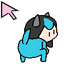
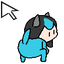
Add customizable MW and 0216 cursors and reliable white-arrow animation playback

Changed region(s): [[0.0312, 0.0312, 0.25, 0.3125]]

diff --git a/assets/mawang-cursor-v1.js b/assets/mawang-cursor-v1.js
@@ -6,17 +6,22 @@
     finger: { label: '마왕 손가락', points: [[1,14],[1,21],[1,28]] },
     red: { label: '레드 애로우', points: [[1,1],[1,1],[1,1]] },
     big: { label: '빅 애로우', points: [[9,1],[13,1],[17,1]] },
-    codeng: { label: '고속 코덩이', points: [[1,1],[1,1],[1,1]], animated:true },
-    'devil-dance': { label: '악마춤', points: [[1,1],[1,1],[1,1]], animated:true },
+    mw: { label: 'MW', points: [[1,1],[1,1],[1,1]], color:true },
+    '0216': { label: '0216', points: [[1,1],[1,1],[1,1]], color:true },
+    codeng: { label: '고속 코덩이', points: [[1,1],[1,1],[1,1]], animated:true, frames:5, duration:250 },
+    'devil-dance': { label: '악마춤', points: [[1,1],[1,1],[1,1]], animated:true, frames:20, duration:800 },
     system: { label: '시스템 기본' }
   };
   const assetBase = new URL('cursors/', document.currentScript.src);
   const mouse = matchMedia('(any-hover: hover) and (any-pointer: fine)');
-  const reduce = matchMedia('(prefers-reduced-motion: reduce)');
-  const imageUrl = (variant, size) => new URL(`${variant}-${size}.png`, assetBase).href;
+  const imageUrl = (variant, size) => new URL(`${variant}-${size}.png?v=3`, assetBase).href;
+  const original = '#f8dce9';
+  const validColor = color => typeof color === 'string' && /^#[0-9a-f]{6}$/i.test(color) ? color.toLowerCase() : original;
   function normalize(raw) {
     return { variant: Object.hasOwn(variants, raw?.variant) ? raw.variant : 'finger',
-      size: sizes.includes(raw?.size) ? raw.size : 48 };
+      size: sizes.includes(raw?.size) ? raw.size : 48,
+      colors: {mw:validColor(raw?.colors?.mw), '0216':validColor(raw?.colors?.['0216'])},
+      play:raw?.play !== false };
   }
   function load() {
     try { return normalize(JSON.parse(localStorage.getItem(key))); }
@@ -24,14 +29,46 @@
   }
   let prefs = load();
   let animation = null;
-  function reducedMotion() {
-    if (reduce.matches || root.dataset.mwsMotion === 'reduced') return true;
-    try { return localStorage.getItem('mws-screen-motion-v1') === 'reduced'; }
-    catch (_) { return false; }
+  const logoCache = new Map();
+  const previewImages = new Map();
+  let applyVersion = 0;
+  function logoUrl(variant,size,color) {
+    const source = imageUrl(variant,size);
+    if (color === original) return Promise.resolve(source);
+    const id = `${variant}-${size}-${color}`;
+    if (logoCache.has(id)) return logoCache.get(id);
+    const result = new Promise(resolve => {
+      const img = new Image();
+      img.onload = () => {
+        try {
+          const canvas = document.createElement('canvas');
+          canvas.width = img.naturalWidth; canvas.height = img.naturalHeight;
+          const ctx = canvas.getContext('2d');
+          ctx.drawImage(img,0,0);
+          const pixels = ctx.getImageData(0,0,canvas.width,canvas.height);
+          const rgb = [1,3,5].map(i=>parseInt(color.slice(i,i+2),16));
+          const d = pixels.data;
+          for (let i=0;i<d.length;i+=4) {
+            // Only the pink highlight. White arrow, neutral outline and alpha stay intact.
+            const strength = Math.max(0,Math.min(1,(Math.min(d[i],d[i+2])-d[i+1]-2)/15));
+            if (!strength || d[i]<125 || !d[i+3]) continue;
+            const light = Math.max(d[i],d[i+1],d[i+2])/255;
+            for(let c=0;c<3;c++) d[i+c] = Math.round(d[i+c]*(1-strength)+rgb[c]*light*strength);
+          }
+          ctx.putImageData(pixels,0,0);
+          resolve(canvas.toDataURL('image/png'));
+        } catch (_) { resolve(source); }
+      };
+      img.onerror = () => resolve(source);
+      img.src = source;
+    });
+    logoCache.set(id,result);
+    if (logoCache.size>24) logoCache.delete(logoCache.keys().next().value);
+    return result;
   }
-  function setNative(variant,size,arrow=false) {
+  function setNative(variant,size,arrow=false,customUrl=null) {
     const [x,y] = variants[variant].points[sizes.indexOf(size)];
-    const image = `url("${imageUrl(arrow?'animation-arrow':variant, size)}") ${x} ${y}`;
+    const image = `url("${customUrl || imageUrl(arrow?'animation-arrow':variant, size)}") ${x} ${y}`;
     root.style.setProperty('--mws-cursor-default', `${image}, auto`);
     root.style.setProperty('--mws-cursor-pointer', `${image}, pointer`);
     root.dataset.mwsCursor = variant;
@@ -52,24 +89,25 @@
     const offset = [6,8,10][sizes.indexOf(size)];
     const controller = new AbortController();
     const signal = controller.signal;
-    const sprite = document.createElement('img');
+    const sprite = document.createElement('div');
     sprite.className = 'mws-cursor-animation';
-    sprite.alt = '';
-    sprite.draggable = false;
     sprite.setAttribute('aria-hidden','true');
     sprite.hidden = true;
-    sprite.width = sprite.height = size-offset;
+    const width = size-offset;
+    sprite.style.width = sprite.style.height = `${width}px`;
     document.body.append(sprite);
     const arrowUrl = imageUrl('animation-arrow',size);
-    let frame = 0, target = null, eligible = false, x = 0, y = 0;
+    let frame = 0, target = null, eligible = false, x = 0, y = 0, playback = null, lastEvent = null;
     const hide = () => {
       if (frame) cancelAnimationFrame(frame);
-      frame = 0; target = null; eligible = false; sprite.hidden = true;
+      frame = 0; target = null; eligible = false; sprite.hidden = true; playback?.pause();
     };
-    const current = {id,ready:false,dispose(){controller.abort();hide();sprite.remove();}};
+    const current = {id,ready:false,dispose(){controller.abort();hide();playback?.cancel();sprite.remove();}};
     animation = current;
     const update = event => {
-      if (!current.ready || event.pointerType !== 'mouse' || event.buttons || document.hidden) { hide(); return; }
+      if (event.pointerType !== 'mouse' || event.buttons || document.hidden) { lastEvent=null; hide(); return; }
+      lastEvent = event;
+      if (!current.ready) return;
       const next = event.target;
       if (target !== next) {
         target = next;
@@ -80,44 +118,76 @@
       if (!frame) frame = requestAnimationFrame(() => {
         frame = 0;
         sprite.style.transform = `translate3d(${x}px,${y}px,0)`;
-        sprite.hidden = false;
+        if (sprite.hidden) { sprite.hidden = false; playback?.play(); }
       });
     };
     const opts = {capture:true,passive:true,signal};
     window.addEventListener('pointermove',update,opts);
     window.addEventListener('pointerover',update,opts);
-    window.addEventListener('pointerdown',hide,opts);
+    const clear = () => {lastEvent=null;hide();};
+    window.addEventListener('pointerdown',clear,opts);
     window.addEventListener('pointerup',update,opts);
-    window.addEventListener('pointercancel',hide,opts);
-    window.addEventListener('pointerout',event=>{if (!event.relatedTarget) hide();},opts);
-    window.addEventListener('dragstart',hide,opts);
-    window.addEventListener('blur',hide,{signal});
+    window.addEventListener('pointercancel',clear,opts);
+    window.addEventListener('pointerout',event=>{if (!event.relatedTarget) clear();},opts);
+    window.addEventListener('dragstart',clear,opts);
+    window.addEventListener('blur',clear,{signal});
     window.addEventListener('scroll',()=>{target=null;},opts);
-    document.addEventListener('visibilitychange',hide,{signal});
-    sprite.addEventListener('load',()=>{
-      if (animation !== current || !sprite.naturalWidth) return;
+    document.addEventListener('visibilitychange',clear,{signal});
+    const sheet = new Image();
+    const stripUrl = imageUrl(`${variant}-strip`,size);
+    sheet.addEventListener('load',()=>{
+      if (animation !== current || !sheet.naturalWidth) return;
+      const {frames,duration}=variants[variant];
+      if (typeof sprite.animate !== 'function') {
+        sprite.style.backgroundImage = `url("${imageUrl(`${variant}-motion`,size)}")`;
+        sprite.style.backgroundSize = `${width}px ${width}px`;
+      } else {
+        sprite.style.backgroundImage = `url("${stripUrl}")`;
+        sprite.style.backgroundSize = `${width*frames}px ${width}px`;
+        playback = sprite.animate([{backgroundPosition:'0px 0px'},{backgroundPosition:`-${width*frames}px 0px`}],{duration,iterations:Infinity,easing:`steps(${frames}, end)`});
+        playback.pause();
+      }
       current.ready = true; target = null;
       setNative(variant,size,true);
+      if (lastEvent) update(lastEvent);
     },{once:true,signal});
-    sprite.addEventListener('error',()=>{if(animation===current){stopAnimation();setNative(variant,size);}}, {once:true,signal});
-    sprite.src = imageUrl(`${variant}-motion`,size);
+    sheet.addEventListener('error',()=>{if(animation===current){stopAnimation();setNative(variant,size);}}, {once:true,signal});
+    sheet.src = stripUrl;
   }
   function apply() {
-    const {variant, size} = prefs;
+    const {variant, size, colors, play} = prefs;
+    const version = ++applyVersion;
     if (variant === 'system' || !mouse.matches) {
       stopAnimation();
       root.removeAttribute('data-mws-cursor');
       root.style.removeProperty('--mws-cursor-default');
       root.style.removeProperty('--mws-cursor-pointer');
-    } else if (variants[variant].animated && !reducedMotion()) startAnimation(variant,size);
-    else { stopAnimation(); setNative(variant,size); }
+    } else if (variants[variant].animated && play) startAnimation(variant,size);
+    else {
+      stopAnimation(); setNative(variant,size);
+      if (variants[variant].color && colors[variant] !== original) {
+        logoUrl(variant,size,colors[variant]).then(url=>{if(version===applyVersion)setNative(variant,size,false,url);});
+      }
+    }
     const panel = document.getElementById('mwsCursorSettings');
     if (!panel) return;
     panel.querySelectorAll('[name="mwsCursorVariant"]').forEach(input => { input.checked = input.value === variant; });
     panel.querySelectorAll('[name="mwsCursorSize"]').forEach(input => { input.checked = Number(input.value) === size; input.disabled = variant === 'system'; });
     const status = panel.querySelector('[data-cursor-status]');
     status.textContent = !mouse.matches ? '마우스 연결 시 적용' : variant === 'system' ? '시스템 기본' : `${size}px`;
-    panel.querySelector('[data-cursor-test]').textContent = !mouse.matches ? '터치 환경에서는 시스템 포인터를 사용합니다.' : variants[variant].animated && reducedMotion() ? '모션 감소 설정으로 정지 이미지가 표시됩니다.' : '이곳에 마우스를 올려 포인터를 확인하세요.';
+    panel.querySelector('[data-cursor-test]').textContent = !mouse.matches ? '터치 환경에서는 시스템 포인터를 사용합니다.' : variants[variant].animated && !play ? '움짤 재생이 꺼져 있습니다.' : '이곳에 마우스를 올려 포인터를 확인하세요.';
+    const colorPanel = panel.querySelector('[data-cursor-colors]');
+    colorPanel.hidden = !variants[variant].color;
+    if (variants[variant].color) {
+      const color = colors[variant];
+      colorPanel.querySelector('[name="mwsCursorColor"]').value = color;
+      colorPanel.querySelectorAll('[data-cursor-color]').forEach(button=>button.setAttribute('aria-pressed',String(button.dataset.cursorColor===color)));
+    }
+    panel.querySelector('[data-cursor-play]').hidden = !variants[variant].animated;
+    panel.querySelector('[name="mwsCursorPlay"]').checked = play;
+    for (const [id,img] of previewImages) {
+      logoUrl(id,64,colors[id]).then(url=>{if(version===applyVersion)img.src=url;});
+    }
   }
   function save(next) {
     prefs = normalize(next);
@@ -128,7 +198,8 @@
     const panel = document.getElementById('mwsCursorSettings');
     if (!panel) return;
     const choices = panel.querySelector('[data-cursor-choices]');
-    for (const [id, variant] of Object.entries(variants)) {
+    for (const id of ['finger','red','big','mw','0216','codeng','devil-dance','system']) {
+      const variant = variants[id];
       const label = document.createElement('label');
       label.className = 'mws-cursor-choice';
       const input = Object.assign(document.createElement('input'), {type:'radio', name:'mwsCursorVariant', value:id});
@@ -138,6 +209,7 @@
         preview.innerHTML = '<svg viewBox="0 0 32 32" aria-hidden="true"><path d="M6 3v24l6-6 5 9 4-2-5-10h9z" fill="currentColor" stroke="var(--panel)" stroke-width="1.5" stroke-linejoin="round"/></svg>';
       } else {
         const img = Object.assign(document.createElement('img'), {src:imageUrl(id, 64), alt:'', width:64, height:64, decoding:'async', loading:'lazy'});
+        if (variant.color) previewImages.set(id,img);
         preview.append(img);
       }
       const title = document.createElement('span');
@@ -150,16 +222,18 @@
       const input = event.target;
       if (input.name === 'mwsCursorVariant') save({...prefs, variant:input.value});
       if (input.name === 'mwsCursorSize') save({...prefs, size:Number(input.value)});
+      if (input.name === 'mwsCursorColor' && variants[prefs.variant].color) save({...prefs,colors:{...prefs.colors,[prefs.variant]:input.value}});
+      if (input.name === 'mwsCursorPlay') save({...prefs,play:input.checked});
     });
+    panel.querySelectorAll('[data-cursor-color]').forEach(button=>button.addEventListener('click',()=>{
+      if(variants[prefs.variant].color)save({...prefs,colors:{...prefs.colors,[prefs.variant]:button.dataset.cursorColor}});
+    }));
     panel.querySelector('[data-cursor-reset]').addEventListener('click', () => save({variant:'finger',size:48}));
     apply();
   }
   mouse.addEventListener('change', apply);
-  reduce.addEventListener('change', apply);
-  window.addEventListener('mws-motion-change', apply);
   window.addEventListener('storage', event => {
     if (event.key === key || event.key === null) { prefs = load(); apply(); }
-    else if (event.key === 'mws-screen-motion-v1') apply();
   });
   apply();
   if (document.readyState === 'loading') document.addEventListener('DOMContentLoaded', init, {once:true});

diff --git a/index.html b/index.html
@@ -16,8 +16,8 @@
 body[data-calendar-startup="pending"] #calendarGrid{position:relative;min-height:clamp(240px,60vh,650px)}
 body[data-calendar-startup="pending"] #calendarGrid:empty::before{content:'일정을 불러오는 중입니다';grid-column:1/-1;align-self:center;justify-self:center;color:var(--muted,#9ca3af);font-size:13px}
 </style>
-<link rel="stylesheet" href="assets/mawang-cursor-v1.css?v=2">
-<script defer src="assets/mawang-cursor-v1.js?v=2"></script>
+<link rel="stylesheet" href="assets/mawang-cursor-v1.css?v=3">
+<script defer src="assets/mawang-cursor-v1.js?v=3"></script>
 <link rel="stylesheet" href="assets/legacy-hub-v1.css?v=1">
 <link rel="stylesheet" href="assets/app-core.css?v=1.6.21-profileimgfix1-calendarsearch171-searchtab172-drag174-workspace176-splitquick177&f1feedback303=1&charcoal=1&dashboardnav=1">
 <link rel="stylesheet" href="assets/calendar-broadcast-duration-v1.css?v=1">
@@ -2005,6 +2005,23 @@ body:not(.sidebar-pinned) .sidebar:not(:hover) .nav-game-divider[data-mws-nav-gr
             <label class="mws-cursor-size"><input type="radio" name="mwsCursorSize" value="32">작게 · 32px</label>
             <label class="mws-cursor-size"><input type="radio" name="mwsCursorSize" value="48" checked>보통 · 48px</label>
             <label class="mws-cursor-size"><input type="radio" name="mwsCursorSize" value="64">크게 · 64px</label>
+          </div>
+          <div class="mws-cursor-extra" data-cursor-colors hidden>
+            <label class="muted small" for="mwsCursorColor">로고 포인트 색상</label>
+            <div class="mws-cursor-palette">
+              <button type="button" data-cursor-color="#f8dce9" style="--swatch:#f8dce9" aria-label="원본 핑크" title="원본 핑크"></button>
+              <button type="button" data-cursor-color="#ffffff" style="--swatch:#ffffff" aria-label="화이트" title="화이트"></button>
+              <button type="button" data-cursor-color="#75b5ff" style="--swatch:#75b5ff" aria-label="블루" title="블루"></button>
+              <button type="button" data-cursor-color="#83e5c2" style="--swatch:#83e5c2" aria-label="민트" title="민트"></button>
+              <button type="button" data-cursor-color="#c0a0ff" style="--swatch:#c0a0ff" aria-label="퍼플" title="퍼플"></button>
+              <button type="button" data-cursor-color="#ffd477" style="--swatch:#ffd477" aria-label="골드" title="골드"></button>
+              <input type="color" id="mwsCursorColor" name="mwsCursorColor" value="#f8dce9" aria-label="직접 색상 선택" title="직접 색상 선택">
+            </div>
+            <span class="muted small">MW와 0216의 색상을 각각 저장합니다. 화살표는 흰색으로 유지됩니다.</span>
+          </div>
+          <div class="mws-cursor-extra" data-cursor-play hidden>
+            <label class="mws-cursor-play-label"><input type="checkbox" name="mwsCursorPlay" checked>움짤 재생</label>
+            <span class="muted small">화면 모션 설정과 별도로 재생합니다.</span>
           </div>
           <div data-cursor-test>이곳에 마우스를 올려 포인터를 확인하세요.</div>
         </div>

diff --git a/assets/mawang-cursor-v1.css b/assets/mawang-cursor-v1.css
@@ -18,10 +18,17 @@
 .mws-cursor-preview img { width:64px;height:64px;object-fit:contain; }
 .mws-cursor-preview svg { width:36px;height:36px; }
 .mws-cursor-animated-choice::after { content:'움짤';position:absolute;top:4px;right:4px;padding:2px 4px;border-radius:5px;background:var(--accent);color:#fff;font-size:9px;line-height:1.1; }
-.mws-cursor-animation { position:fixed!important;top:0!important;left:0!important;z-index:2147483647!important;pointer-events:none!important;user-select:none!important;object-fit:contain;max-width:none!important;max-height:none!important;margin:0!important;padding:0!important;contain:layout paint style;will-change:transform;transition:none!important; }
+.mws-cursor-animation { position:fixed!important;top:0!important;left:0!important;z-index:2147483647!important;pointer-events:none!important;user-select:none!important;background-repeat:no-repeat;max-width:none!important;max-height:none!important;margin:0!important;padding:0!important;border:0!important;contain:layout paint style;will-change:transform;transition:none!important; }
 .mws-cursor-animation[hidden] { display:none!important; }
 .mws-cursor-size-row { display:flex;gap:6px;flex-wrap:wrap; }
 .mws-cursor-size { position:relative;flex:1;padding:7px 8px;border:1px solid var(--border);border-radius:8px;background:var(--input);text-align:center;font-size:11px;font-weight:700;cursor:var(--mws-cursor-pointer,pointer); }
 .mws-cursor-size:has(input:disabled) { opacity:.45;cursor:not-allowed; }
+.mws-cursor-extra { display:grid;gap:7px;margin-top:12px; }
+.mws-cursor-extra[hidden] { display:none!important; }
+.mws-cursor-palette { display:flex;flex-wrap:wrap;align-items:center;gap:8px; }
+.mws-cursor-palette button[data-cursor-color] { width:28px;height:28px;min-height:0;padding:0;border:2px solid var(--border);border-radius:50%;background:var(--swatch); }
+.mws-cursor-palette button[aria-pressed=true] { outline:2px solid var(--accent);outline-offset:2px; }
+.mws-cursor-palette input[type=color] { width:40px;height:30px;padding:2px;border-radius:7px; }
+.mws-cursor-play-label { display:flex;gap:7px;align-items:center;font-size:12px; }
 [data-cursor-test] { margin-top:10px;border:1px dashed var(--border);border-radius:9px;padding:12px;text-align:center;color:var(--muted);font-size:11px;cursor:var(--mws-cursor-default,auto); }
 @media (max-width:480px) { .mws-cursor-choices { grid-template-columns:repeat(3,minmax(0,1fr)); } }

diff --git a/content-planner.html b/content-planner.html
@@ -4,8 +4,8 @@
 <meta charset="utf-8">
 <meta name="viewport" content="width=device-width,initial-scale=1">
 <title>MAWANG Content Planner V1.0.17</title>
-<link rel="stylesheet" href="assets/mawang-cursor-v1.css?v=2">
-<script defer src="assets/mawang-cursor-v1.js?v=2"></script>
+<link rel="stylesheet" href="assets/mawang-cursor-v1.css?v=3">
+<script defer src="assets/mawang-cursor-v1.js?v=3"></script>
 <link rel="preconnect" href="https://fonts.googleapis.com"><link rel="preconnect" href="https://fonts.gstatic.com" crossorigin><link href="https://fonts.googleapis.com/css2?family=Black+Han+Sans&family=Do+Hyeon&family=Gowun+Dodum&family=Jua&family=Nanum+Gothic:wght@400;700;800&family=Nanum+Myeongjo:wght@400;700;800&family=Noto+Sans+KR:wght@400;500;700;900&display=swap" rel="stylesheet">
 <style>
 :root{

diff --git a/majoku-castle.html b/majoku-castle.html
@@ -4,8 +4,8 @@
 <meta charset="utf-8" />
 <meta name="viewport" content="width=device-width,initial-scale=1" />
 <title>Majoku Castle</title>
-<link rel="stylesheet" href="assets/mawang-cursor-v1.css?v=2">
-<script defer src="assets/mawang-cursor-v1.js?v=2"></script>
+<link rel="stylesheet" href="assets/mawang-cursor-v1.css?v=3">
+<script defer src="assets/mawang-cursor-v1.js?v=3"></script>
 <!-- Build 0.7.4 -->
 <style>
 :root{
